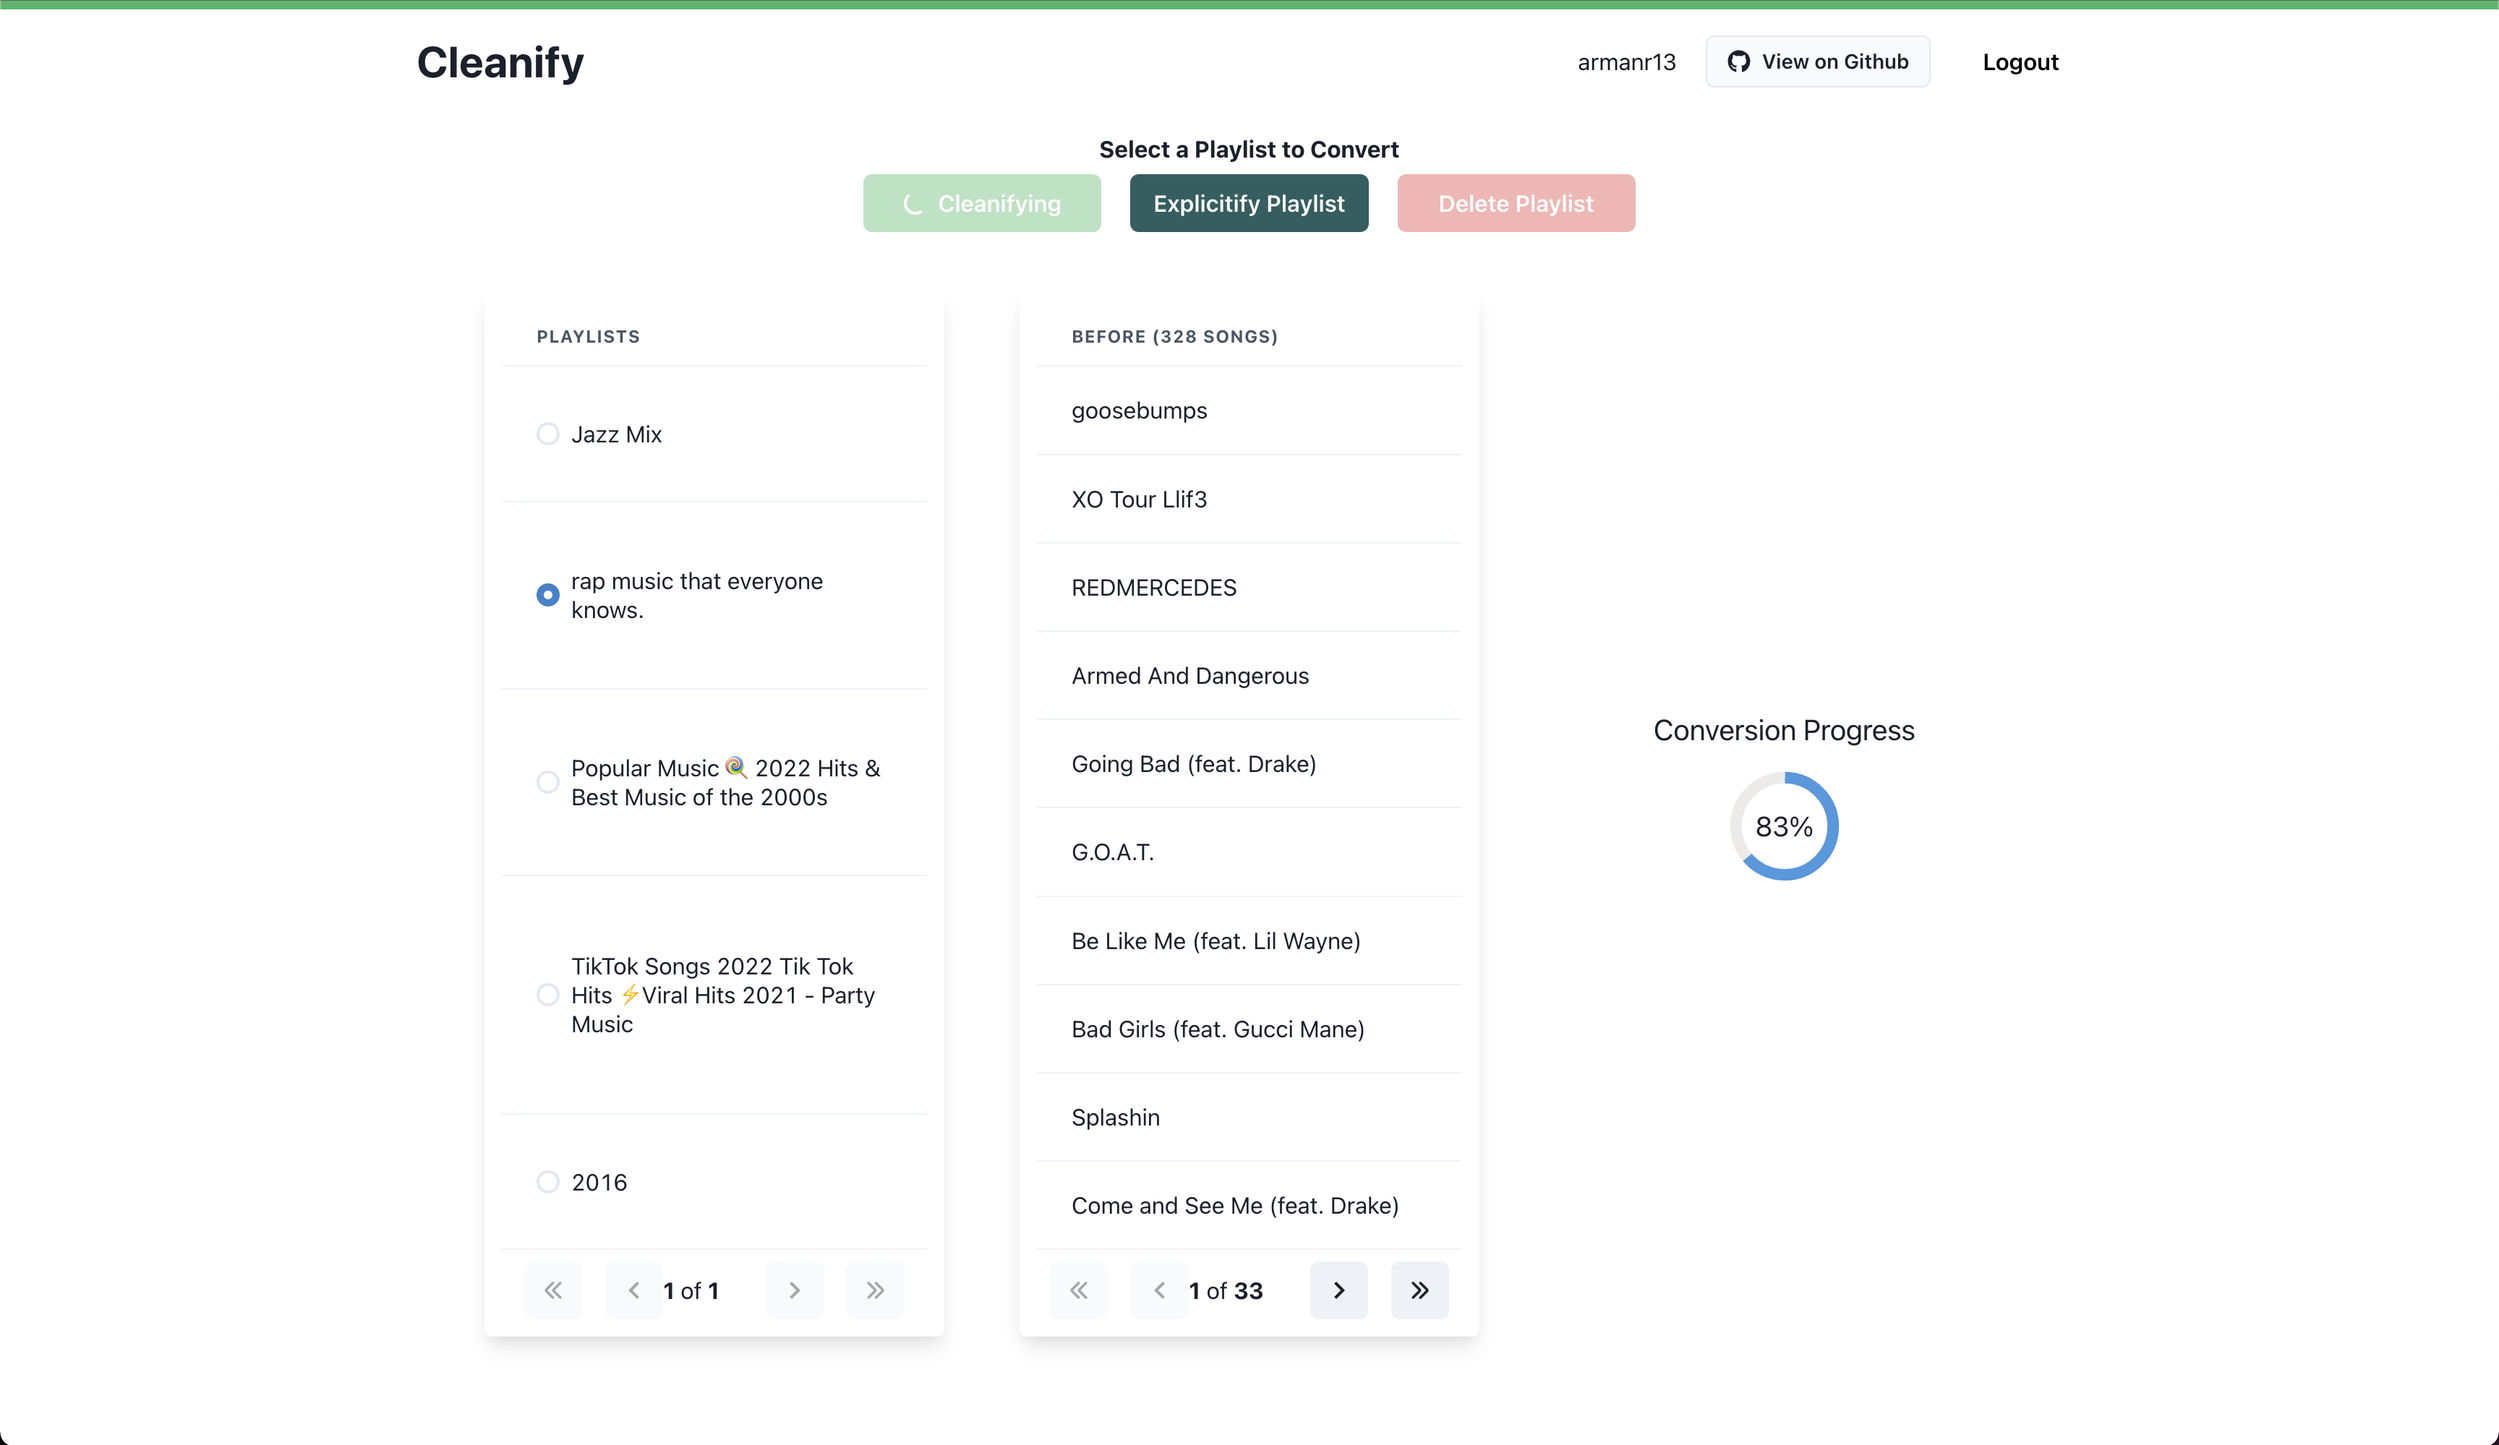
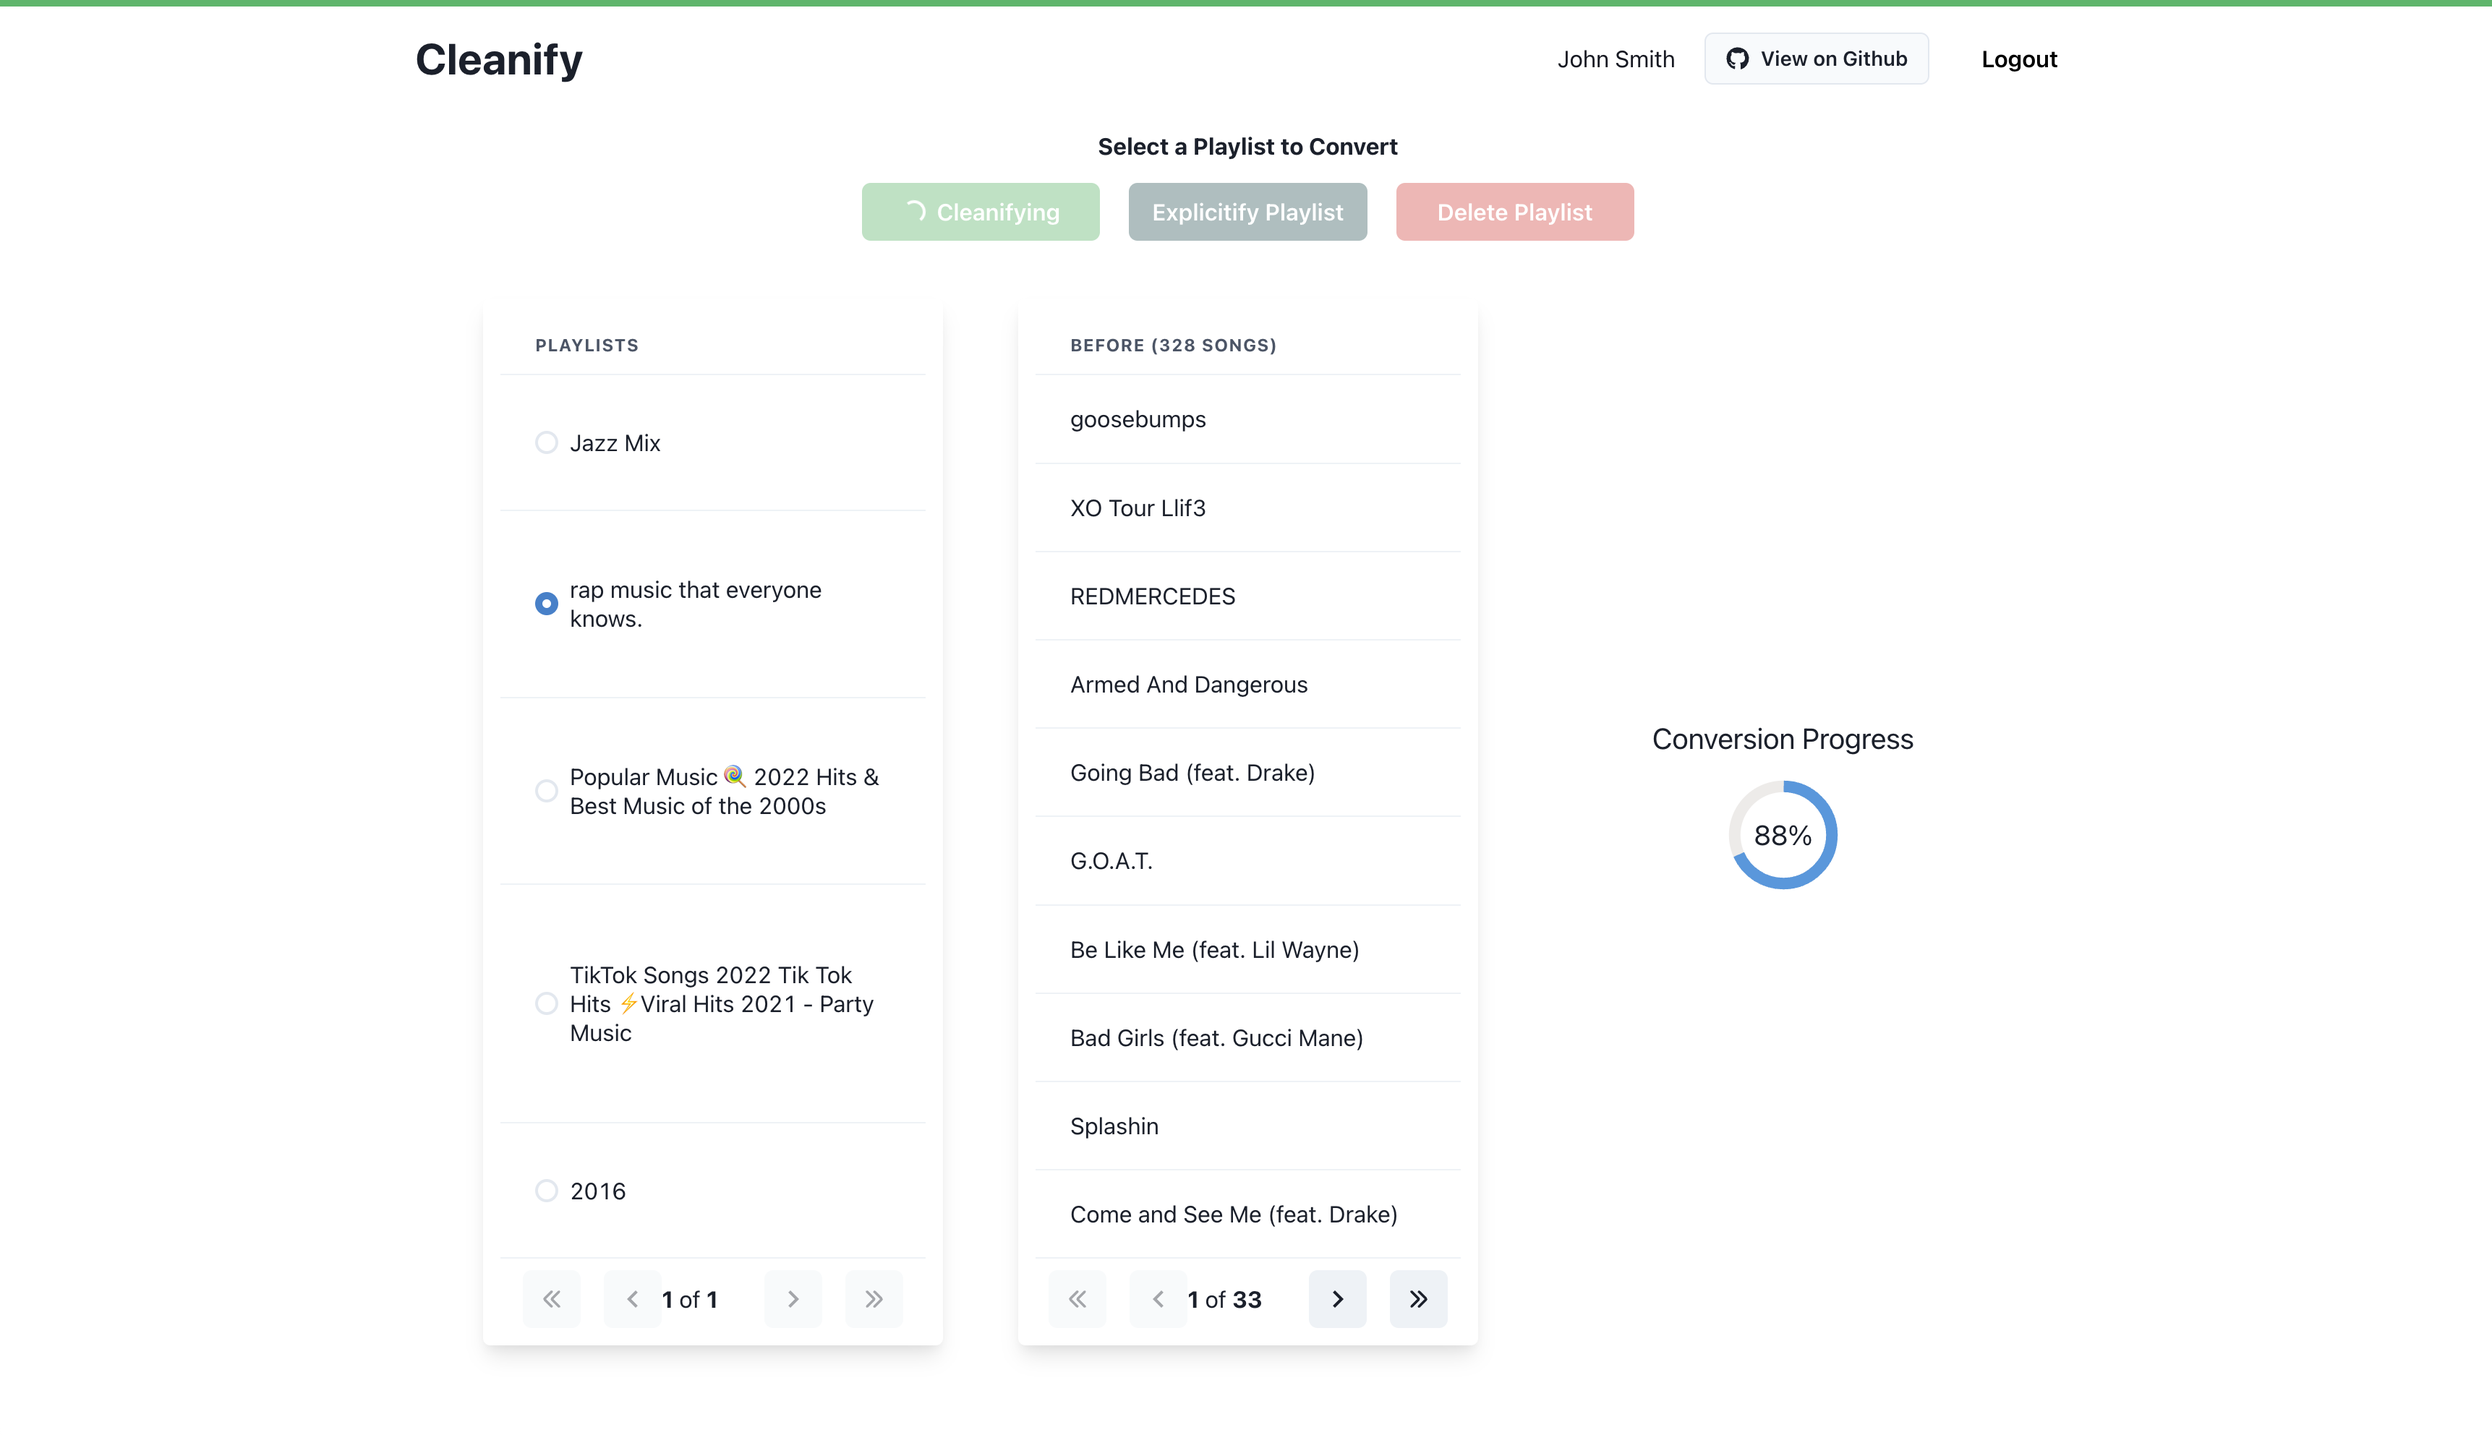
Disable all buttons during conversion

diff --git a/client/src/pages/Home.jsx b/client/src/pages/Home.jsx
@@ -350,7 +350,11 @@ const Home = ({ code }) => {
       <Header username={user && user.display_name} />
       <Flex align="center" justify="center" p={[0, 1, 15, 15]}>
         <VStack mb={5}>
-          {user && <Heading size={"sm"}>Select a Playlist to Convert</Heading>}
+          {user && (
+            <Heading size={"sm"} pb={2}>
+              Select a Playlist to Convert
+            </Heading>
+          )}
           {user && (
             <SimpleGrid spacing={[1, 3, 5, 5]} columns={[1, 2, 3, 3]}>
               <Button
@@ -360,7 +364,11 @@ const Home = ({ code }) => {
                 color="white"
                 onClick={() => handleCleanify(true)}
                 loadingText="Cleanifying"
-                isDisabled={!checkedPlaylist || gettingTracks}
+                isDisabled={
+                  !checkedPlaylist ||
+                  gettingTracks ||
+                  (cleanifyStatus && !wantedExplicit)
+                }
               >
                 Cleanify Playlist
               </Button>
@@ -371,7 +379,11 @@ const Home = ({ code }) => {
                 color="white"
                 onClick={() => handleCleanify(false)}
                 loadingText="Explicitifying"
-                isDisabled={!checkedPlaylist || gettingTracks}
+                isDisabled={
+                  !checkedPlaylist ||
+                  gettingTracks ||
+                  (cleanifyStatus && wantedExplicit)
+                }
               >
                 Explicitify Playlist
               </Button>

diff --git a/client/src/components/Header.jsx b/client/src/components/Header.jsx
@@ -37,7 +37,6 @@ const Header = ({ username }) => {
     axios
       .post(`${process.env.REACT_APP_CLEANIFY_BACKEND_URL}/logout`)
       .then(() => {
-        console.log("logging out");
         localStorage.removeItem("api-key");
         localStorage.setItem("logout", true);
         window.location = "/";

diff --git a/client/src/utils/api.js b/client/src/utils/api.js
@@ -57,6 +57,7 @@ export const createPlaylist = (playlistName, userId) =>
     instance.post(`https://api.spotify.com/v1/users/${userId}/playlists`, {
       name: playlistName,
       public: false,
+      description: `Created with www.Cleanify.app`,
     })
   );
 
